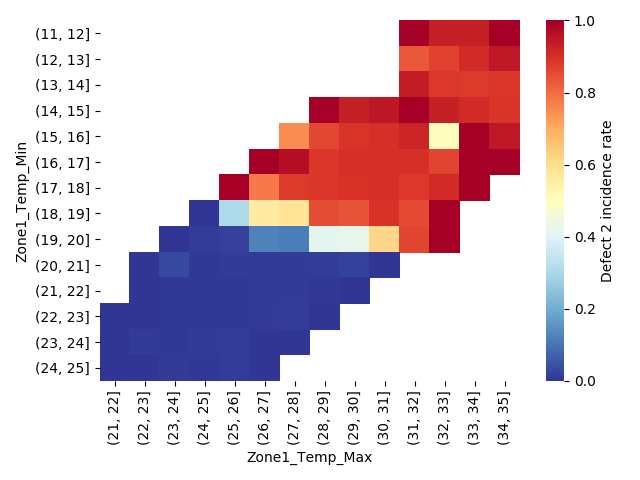
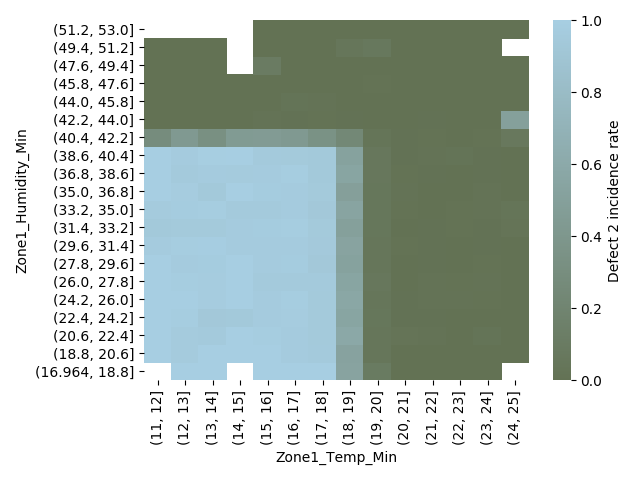
Changed code to plot opportunity 1 tree and dependency plot to match color codes for defects and simplified tree appearance

diff --git a/run_exploratory_analyses.py b/run_exploratory_analyses.py
@@ -120,11 +120,21 @@ def analyze_opportunity1(data):
     # Analyze root cause of opportunity 1 defects (Defect_2 in NonA001 SKUs)
     data2 = data[(data.SKU != 'A001') & data.Result_Type.isin(['PASS', 'Defect_2'])].dropna()
     x = pandas.get_dummies(data2.drop(columns=['Result_Type_Bin', 'Result_Type', 'Date', 'SKU']))
-    tree = sklearn.tree.DecisionTreeClassifier(min_samples_split=1000, min_samples_leaf=100,
+    tree = sklearn.tree.DecisionTreeClassifier(min_samples_split=1000, min_samples_leaf=500,
                                                min_impurity_split=0.1).fit(x, data2.Result_Type.astype('object'))
-    graph = sklearn.tree.export_graphviz(tree, feature_names=x.columns, class_names=tree.classes_, filled=True,
-                                         rounded=True, proportion=True)
+    graph = sklearn.tree.export_graphviz(tree,
+                                         impurity=False,
+                                         precision=2,
+                                         special_characters=True,
+                                         max_depth=3,
+                                         feature_names=x.columns,
+                                         class_names=tree.classes_,
+                                         filled=True,
+                                         rounded=True,
+                                         proportion=True)
     graphviz.Source(graph).render(os.path.join('figures', 'opportunity1_tree'), format='png')
+    graphviz.Source(graph).render(os.path.join('figures', 'opportunity1_tree'), format='pdf')
+
 
 
 def plot_opportunity1_partial_dependency_plot(data):
@@ -132,13 +142,15 @@ def plot_opportunity1_partial_dependency_plot(data):
 
     data2['HasDefect'] = data2.Result_Type != 'PASS'
 
-    data3 = data2.groupby([pandas.cut(data2.Zone1_Temp_Min, range(11, 26), precision=0),
-                           pandas.cut(data2.Zone1_Temp_Max, range(20, 36), precision=0)]). \
+    data3 = data2.groupby([pandas.cut(data2.Zone1_Temp_Max, range(20, 36), precision=0),
+                           pandas.cut(data2.Zone1_Temp_Min, range(11, 26), precision=0)]). \
         HasDefect.mean().unstack()
     data3.sort_index(axis=1, inplace=True)
 
     matplotlib.pyplot.figure()
-    seaborn.heatmap(data3, cmap='RdYlBu_r', cbar_kws={'label': 'Defect 2 incidence rate'})
+    cmap = matplotlib.colors.LinearSegmentedColormap.from_list('pass_to_defect2', ['#637254', '#a7cee2'])
+    ax = seaborn.heatmap(data3, cmap=cmap, cbar_kws={'label': 'Defect 2 incidence rate'})
+    ax.invert_yaxis()
     matplotlib.pyplot.tight_layout()
     matplotlib.pyplot.savefig(os.path.join('figures', 'opportunity1_partial_dependency.png'))
 
